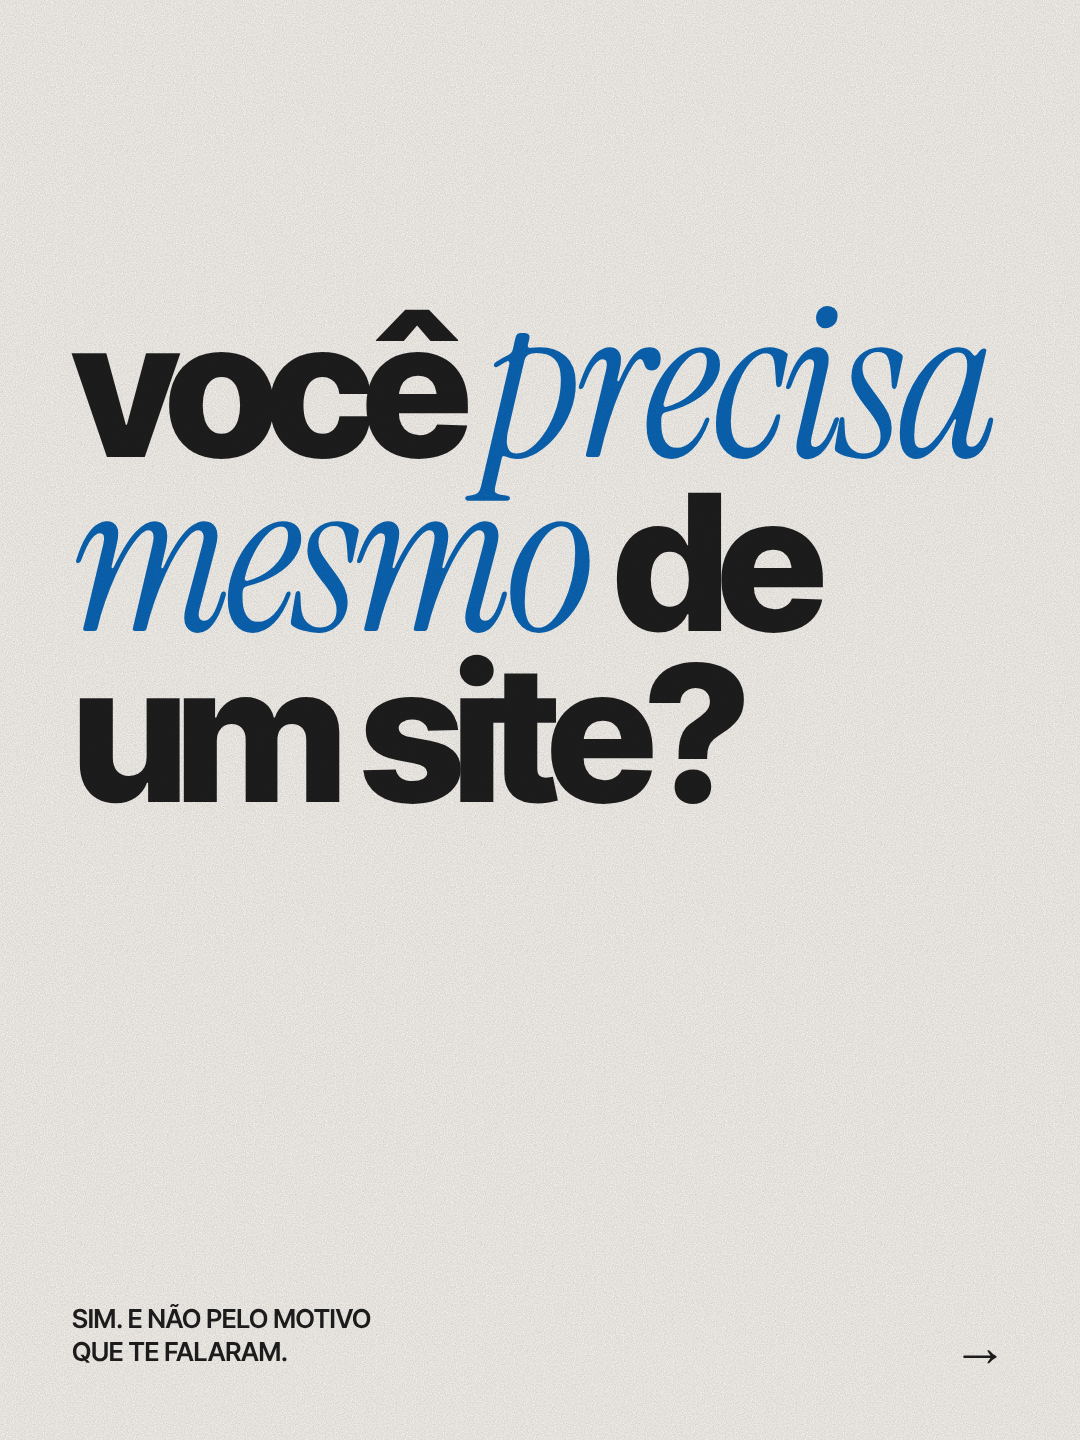
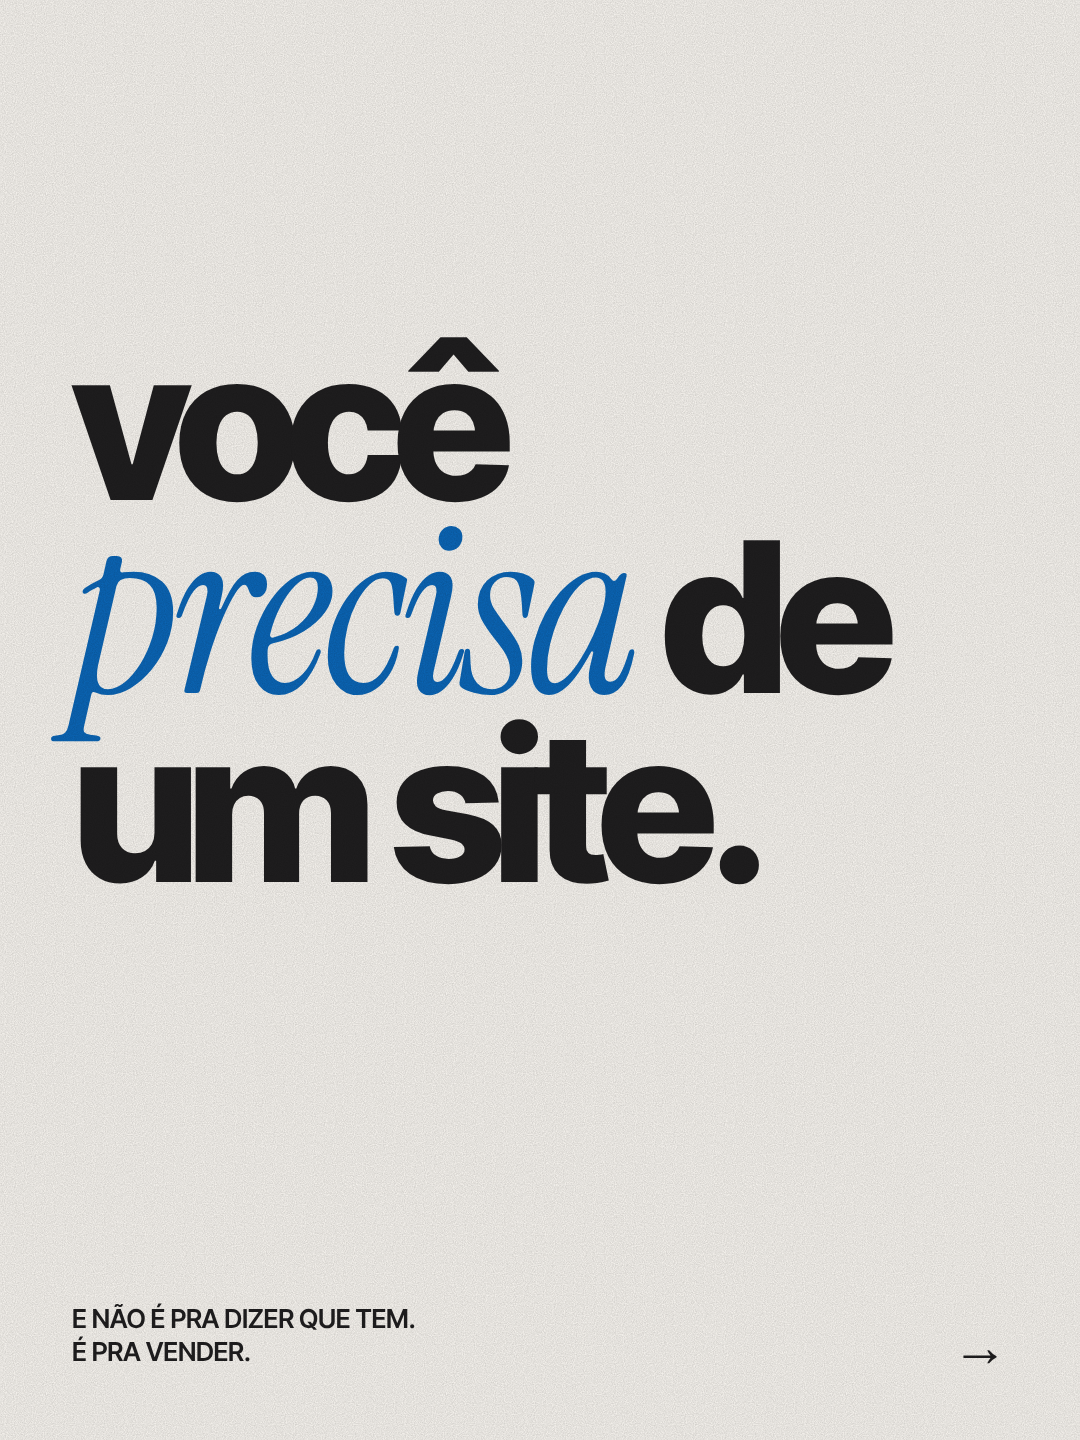
Post editorial com tom afirmativo: "você precisa de um site."
Claude-Session: https://claude.ai/code/session_01P2gMEPFx4h5Snu2b9VrmuT

Changed region(s): [[0.0611, 0.1875, 0.9167, 0.625], [0.0611, 0.9062, 0.3972, 0.9688]]

diff --git a/modelos/posts/busca-editorial.py b/modelos/posts/busca-editorial.py
@@ -1,4 +1,4 @@
-"""Carrossel "você precisa mesmo de um site?" na linguagem editorial (referência: feed do estúdio Herground):
+"""Carrossel "você precisa de um site." (afirmativo, a pedido dele) na linguagem editorial (referência: feed do estúdio Herground):
 uma frase forte por slide, Inter Tight 800 em minúsculas com uma palavra em Instrument Serif itálica,
 três fundos se alternando (creme, preto, azul) e imagens do banco grandes. Refaz o zine nº 05, que ficou genérico.
 8 slides 1080x1440. Gerar: python3 busca-editorial.py && node ../render.mjs busca-editorial.html saida 1080 1440 8"""
@@ -35,27 +35,27 @@ def slide(n, cor, inner, sm="", arrow=True):
 
 
 S = [
-    slide(1, "cream", '<h1 class="h" style="top:300px;font-size:190px">você <i>precisa<br>mesmo</i> de<br>um site?</h1>',
-          "sim. e não pelo motivo<br>que te falaram."),
+    slide(1, "cream", '<h1 class="h" style="top:330px;font-size:210px">você<br><i>precisa</i> de<br>um site.</h1>',
+          "e não é pra dizer que tem.<br>é pra vender."),
     slide(2, "black", f'''<img class="img" src="{T}eclipse-sol-claro.png" style="left:300px;top:640px;width:900px;opacity:.9">
       <div style="left:680px;top:914px;width:150px;height:150px;border-radius:50%;background:var(--blue);z-index:2;box-shadow:0 0 60px rgba(74,163,234,.5)"></div>
-      <h1 class="h" style="top:110px;font-size:150px">ninguém<br>acorda<br>querendo<br>um <i>site.</i></h1>''',
-          "a pessoa acorda querendo comer,<br>cortar o cabelo, dar um presente."),
-    slide(3, "blue", '<h1 class="h" style="top:420px;font-size:200px">ela procura.<br><i>você<br>aparece?</i></h1>',
-          "no google, no mapa,<br>no “perto de mim”."),
+      <h1 class="h" style="top:110px;font-size:150px">seu cliente<br>já está te<br><i>procurando.</i></h1>''',
+          "no google, no mapa, no “perto de mim”.<br>a pergunta é o que ele encontra."),
+    slide(3, "blue", '<h1 class="h" style="top:420px;font-size:190px">instagram<br>é <i>aluguel.</i><br>site é seu.</h1>',
+          "o perfil segue as regras de outra empresa.<br>o endereço do site é seu."),
     slide(4, "cream", f'''<img class="img" src="{T}estrelas.png" style="left:640px;top:40px;height:1360px">
-      <h1 class="h" style="top:110px;font-size:150px">o google<br>não lê<br><i>bonito.</i><br>lê claro.</h1>''',
-          "nome, endereço, horário e o que<br>você faz. escrito, não dentro de imagem."),
+      <h1 class="h" style="top:110px;font-size:140px">confiança<br>vem <i>antes</i><br>do primeiro<br>oi.</h1>''',
+          "endereço, fotos, cardápio, avaliações.<br>quem vê antes chama mais seguro."),
     slide(5, "black", f'''<img class="img" src="{T}cisnes-claro.png" style="left:90px;top:560px;width:900px">
-      <h1 class="h" style="top:110px;font-size:140px">site, google<br>e instagram<br><i>dizendo a<br>mesma coisa.</i></h1>''',
-          "informação que bate<br>passa confiança."),
+      <h1 class="h" style="top:110px;font-size:150px">site <i>trabalha</i><br>enquanto<br>você dorme.</h1>''',
+          "a vitrine que não fecha e responde<br>as mesmas perguntas por você."),
     slide(6, "cream", f'''<img class="img" src="{T}washington.png" style="left:40px;top:620px;width:1000px">
-      <h1 class="h" style="top:110px;font-size:140px">quem promete<br>o topo do<br>google <i>está<br>chutando.</i></h1>''',
-          "eu deixo o site pronto pra ser<br>encontrado. o resto é concorrência.", arrow=True),
+      <h1 class="h" style="top:110px;font-size:150px"><i>sem site,</i><br>você depende<br>de sorte.</h1>''',
+          "do algoritmo, do story certo<br>na hora certa.", arrow=True),
     slide(7, "blue", '<h1 class="h" style="top:330px;font-size:180px">site é a<br><i>vitrine.</i><br>a busca<br>é a <i>rua.</i></h1>',
-          "não adianta vitrine linda<br>numa rua sem ninguém."),
+          "e o seu negócio precisa<br>estar nas duas."),
     slide(8, "black", '''<div style="left:72px;top:150px;width:120px;height:120px;border-radius:50%;background:var(--blue);box-shadow:0 0 50px rgba(74,163,234,.55)"></div>
-      <h1 class="h" style="top:420px;font-size:170px">vamos te<br>colocar na<br><i>rua certa?</i></h1>''',
+      <h1 class="h" style="top:420px;font-size:200px">vamos<br>fazer o<br><i>seu?</i></h1>''',
           "me chama no direct.<br>quem responde sou eu.", arrow=False),
 ]
 S[-1] = S[-1].replace('<div class="grain">', '<p class="sm" style="right:72px;left:auto;bottom:72px;text-align:right">senerine.dev</p><div class="grain">')

diff --git a/formatos/post.md b/formatos/post.md
@@ -16,7 +16,7 @@
 | Zine com imagens | manchete Anton + imagem em tinta sobre ponto azul + papelzinho com o texto | Link na bio (zine), Ninguém lê (zine nº 02), Modelo pronto (zine nº 03, com faixa vertical) | `modelos/posts/zine.py`, `ninguem-le.py`, `modelo-pronto.py` |
 | Linha contínua | uma frase curta por slide, uma linha azul atravessa os slides e encosta no texto, que alterna esquerda/direita; termina no ponto | Caro e barato | `modelos/posts/linha-continua.py` (panorama) |
 | Fio + mockups | um fio azul que vira a linha do rodapé e anda como progresso | Link na bio (Senerine) | `modelos/posts/fio-mockups.py` (panorama) |
-| Editorial (em teste) | uma frase forte por slide em Inter Tight 800 minúscula, uma palavra em Instrument Serif itálica, fundos creme / preto / azul alternando, imagem do banco grande, texto pequeno em caixa alta embaixo e seta → | Você precisa mesmo de um site? | `modelos/posts/busca-editorial.py` |
+| Editorial (em teste) | uma frase forte por slide em Inter Tight 800 minúscula, uma palavra em Instrument Serif itálica, fundos creme / preto / azul alternando, imagem do banco grande, texto pequeno em caixa alta embaixo e seta → | Você precisa de um site. | `modelos/posts/busca-editorial.py` |
 | Capturas reais em grade | cartão com captura do site, faixa "passa batido", título com ponto | 5 detalhes | `modelos/posts/senerine-capturas.py` |
 
 Renderizar: `node modelos/render.mjs <html> <saida> 1080 1440 <n>` (acrescente `panorama` quando a linha atravessa slides).
@@ -27,6 +27,7 @@ Renderizar: `node modelos/render.mjs <html> <saida> 1080 1440 <n>` (acrescente `
 - **Colagem de fotos P&B recortadas com uma cor só** (as do "ninguém lê": megafone, botas, homem lâmpada, leitor da folha azul, cabeça aberta, multidão, cabeça azul): "gostei da seleção". Preferidas a estampas, texturas e nanquim, que ficaram sem graça no "modelo pronto".
 - **Imagem dele como fundo do slide inteiro** (flores no "modelo pronto é estampa"): texto na área clara, halo cor de papel na nota.
 - **Nota com linha** no lugar do papelzinho: texto solto no fio, linha fina até o detalhe da imagem.
+- **Tom afirmativo** ("você precisa de um site."), não pergunta em cima do muro ("precisa mesmo?"): ele pediu "uma pegada mais, você precisa de um site".
 - **Paradoxo como gancho** ("caro e barato ao mesmo tempo") e contraste de público ("caro pra quem... / barato pra quem...").
 - **Imagem como metáfora** de cada slide (menino correndo = cliente chegando; batida = o barato que sai caro).
 - **Um slide sendo justo** ("Linktree não é vilão"): dá credibilidade.

diff --git a/ideias/posts.md b/ideias/posts.md
@@ -13,4 +13,4 @@ Status: `ideia` · `em produção` · `pronto` · `postado`
 | em produção | Ninguém lê o seu site | "Ninguém lê o seu site. Todo mundo olha." | zine nº 02, 9 slides, colagens (`modelos/posts/ninguem-le.py`) |
 | em produção | Por que site de modelo pronto passa batido | "Seu site é bonito. E igual ao de todo mundo." | zine nº 03, 8 slides, colagens do nº 02 e flores de fundo no slide "estampa" (`modelos/posts/modelo-pronto.py`) |
 | pronto | Seu cliente perdeu o foco | "Seu cliente perdeu o foco. E você nem viu." | zine nº 04, 8 slides, só imagens do banco (`modelos/posts/foco.py`) |
-| pronto | Você precisa mesmo de um site? | "Você precisa mesmo de um site?" | editorial, 8 slides (`modelos/posts/busca-editorial.py`); a versão zine nº 05 (`busca.py`) ficou genérica |
+| pronto | Você precisa de um site | "Você precisa de um site." (afirmativo; a versão em pergunta ficou fraca) | editorial, 8 slides (`modelos/posts/busca-editorial.py`); a versão zine nº 05 (`busca.py`) ficou genérica |
